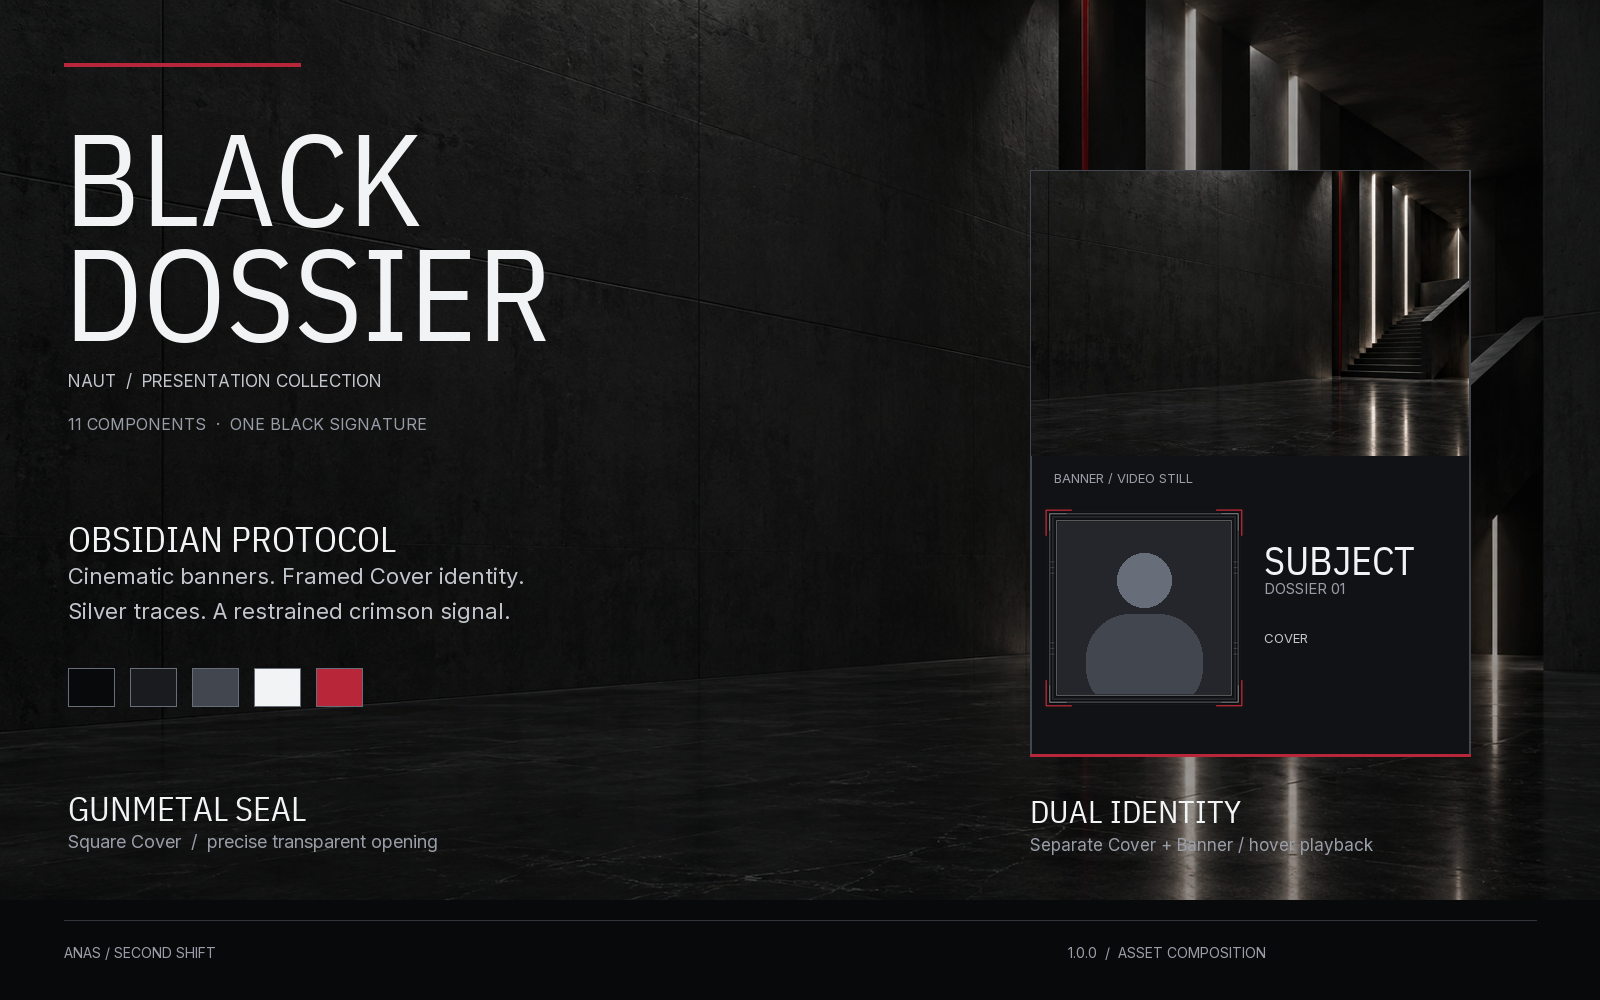
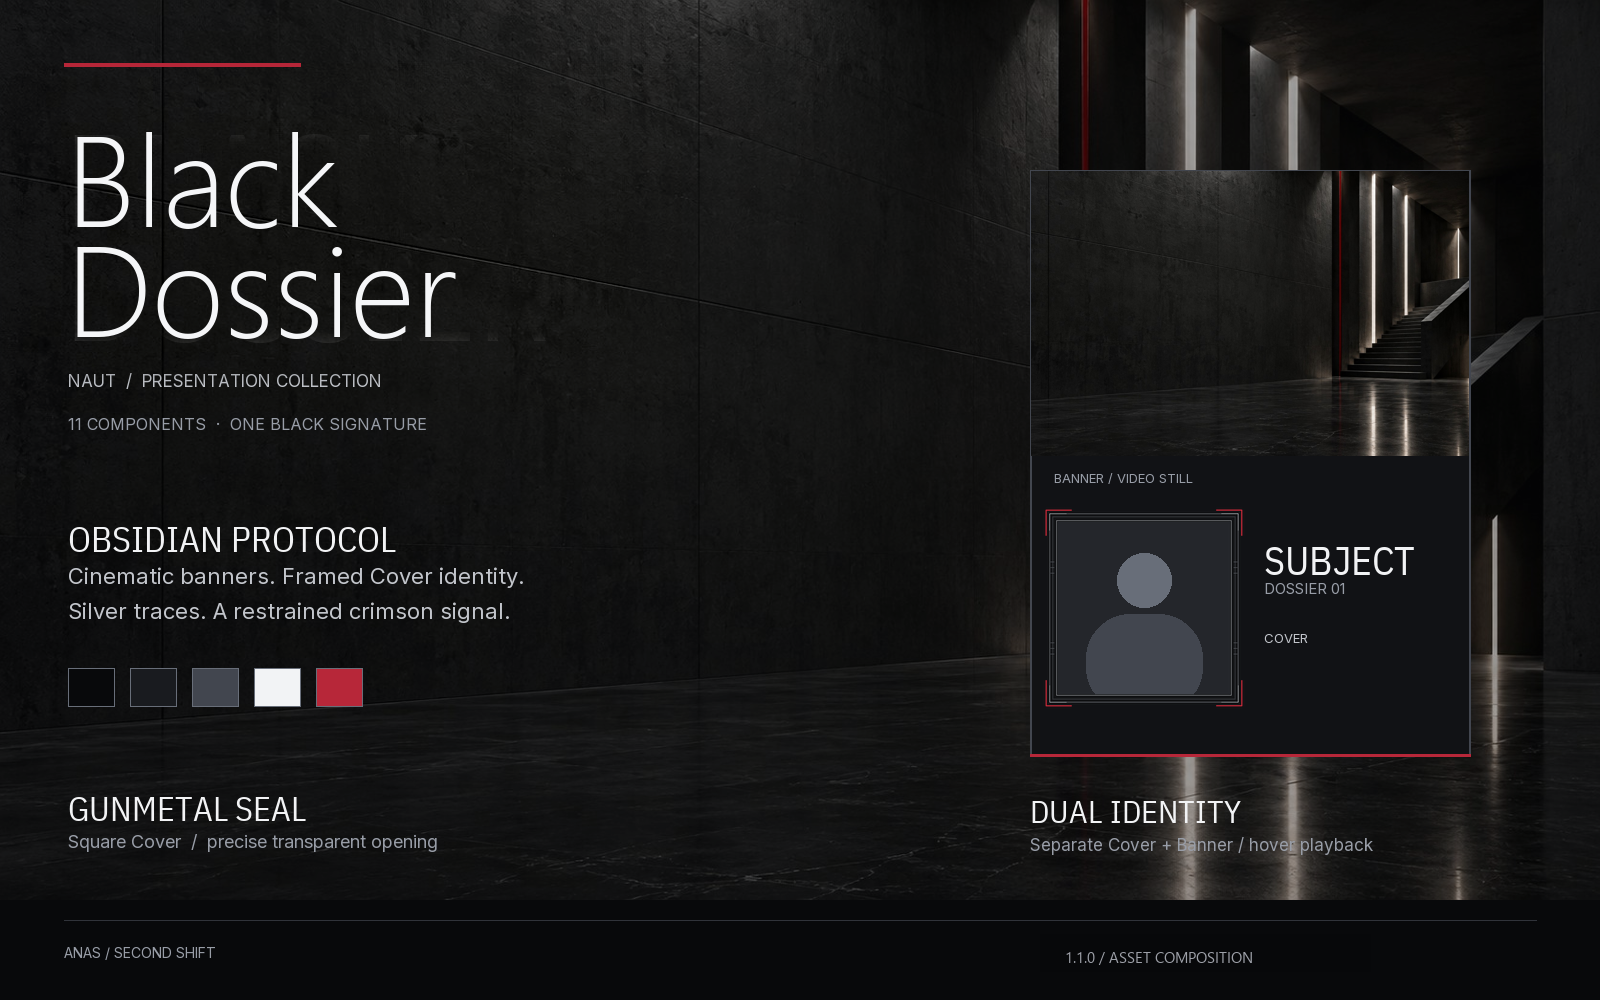
Publish refreshed optional packs for Naut 0.0.7

Changed region(s): [[0.0312, 0.124, 0.3438, 0.341], [0.6562, 0.93, 0.7812, 0.961]]

diff --git a/packs/README.md b/packs/README.md
@@ -4,15 +4,15 @@ Give your collection another atmosphere. These packs are reviewed by Naut's
 maintainer and installed only when you choose them. They are customization
 content with independent versions; they do not replace the application.
 
-## BLACK DOSSIER — 1.0.0
+## Black Dossier — 1.1.0
 
-![BLACK DOSSIER](black-dossier/preview.png)
+![Black Dossier](black-dossier/preview.png)
 
-A neutral black cinematic collection with restrained crimson accents. Eleven independently selectable components, including bundled typography, separate Cover/Banner cards, the native Figure and a visible three-tier effect. Requires **Naut 0.0.6 or later**. Preview is an asset composition.
+A neutral black cinematic collection with restrained crimson accents. Eleven independently selectable components, including bundled typography, separate Cover/Banner cards, the native Figure and a visible three-tier effect. Optimized for **Naut 0.0.7**. The Theme uses a small static image in Appearance. Preview is an asset composition.
 
-**[Download BLACK DOSSIER 1.0.0](https://secondshift-dv.github.io/naut/packs/black-dossier-1.0.0.ntpack)** · [Setup](black-dossier/README.md) · [Provenance](black-dossier/PROVENANCE.txt) · [Checksums](https://secondshift-dv.github.io/naut/packs/checksums.json)
+**[Download Black Dossier 1.1.0](https://secondshift-dv.github.io/naut/packs/black-dossier-1.1.0.ntpack)** · [Setup](black-dossier/README.md) · [Provenance](black-dossier/PROVENANCE.txt) · [Checksums](https://secondshift-dv.github.io/naut/packs/checksums.json)
 
-## Overworld Expedition — 1.0.1
+## Overworld Expedition — 1.1.0
 
 ![Overworld Expedition](overworld-expedition/preview.png)
 
@@ -21,9 +21,9 @@ collection shelves, three cozy backdrops and three cute square portrait frames.
 17 independently selectable components. The Profile layout puts the media wall
 before context and moves Delete to the bottom; the spotlight omits overview.
 Sparse effects drift slowly and provide reduced-motion/static variants.
-The preview is an asset composition, not a live app screenshot.
+The preview is an asset composition, not a live app screenshot. The Theme has a lightweight artwork thumbnail for Appearance. Home removes redundant Favorites; Profile adds optional Recent Media.
 
-**[Download Overworld Expedition 1.0.1](https://secondshift-dv.github.io/naut/packs/overworld-expedition-1.0.1.ntpack)**
+**[Download Overworld Expedition 1.1.0](https://secondshift-dv.github.io/naut/packs/overworld-expedition-1.1.0.ntpack)**
 · [Checksums](https://secondshift-dv.github.io/naut/packs/checksums.json)
 · [Setup and recommended components](overworld-expedition/README.md)
 · [Pack source](overworld-expedition/pack.json)
@@ -34,16 +34,16 @@ Fonts retain OFL. Use Square Covers for the portrait frames.
 Topbar colors share Naut's surface palette; page ornaments and Customize Card
 size remain engine controlled.
 
-## Celestial Collection · 1.2.0
+## Celestial Collection · 1.3.0
 
 ![Celestial Collection](celestial/preview.png)
 
 **Violet and Moonlit Azure**, three ornate portrait frames, a centered spotlight,
 compact layouts, atmospheric backdrops, stardust, typography and control styles.
 19 independently selectable components. Frame geometry follows Naut's ornate
-frame stage. The preview is an asset composition, not a live app screenshot.
+frame stage. The preview is an asset composition, not a live app screenshot. Both Themes have lightweight artwork thumbnails for Appearance. Home removes redundant Favorites; Profile adds optional Recent Media.
 
-**[Download Celestial 1.2.0](https://secondshift-dv.github.io/naut/packs/celestial-1.2.0.ntpack)**
+**[Download Celestial 1.3.0](https://secondshift-dv.github.io/naut/packs/celestial-1.3.0.ntpack)**
 · [Checksums](https://secondshift-dv.github.io/naut/packs/checksums.json)
 · [Pack source](celestial/pack.json) · [Artwork/font provenance](celestial/PROVENANCE.txt)
 

diff --git a/packs/overworld-expedition/README.md b/packs/overworld-expedition/README.md
@@ -1,4 +1,4 @@
-# Overworld Expedition — 1.0.1
+# Overworld Expedition — 1.1.0
 
 A calm voxel expedition for your collection, by **Anas / Second Shift**.
 17 independently selectable components. Install as an optional custom pack;
@@ -10,7 +10,7 @@ The preview combines pack assets; it is not a screenshot of Naut.
 
 ## Install and explore
 
-Download [Overworld Expedition 1.0.1](https://secondshift-dv.github.io/naut/packs/overworld-expedition-1.0.1.ntpack).
+Download [Overworld Expedition 1.1.0](https://secondshift-dv.github.io/naut/packs/overworld-expedition-1.1.0.ntpack).
 Open **Settings → Presentation → Packs / Advanced → Install from file**.
 Choose the archive, select components in Appearance or the corresponding
 Customize screen, and **Save changes**. Use **Replace** when updating this pack.
@@ -64,6 +64,13 @@ Voxel-world inspiration is expressed through original artwork. No Minecraft
 assets, logos or source files are included; this is an independent Naut pack.
 
 [Collection](../README.md) · [Checksums](https://secondshift-dv.github.io/naut/packs/checksums.json)
+
+## Changes in 1.1.0
+
+- Field Notes has a dedicated 320 x 180 artwork thumbnail for Settings > Appearance rather than relying on the full Meadow background.
+- Base Camp removes the redundant Favorites rail, giving Recent Profiles more room.
+- Collection Lodge shows optional Recent Media after identity when enabled; Delete remains last.
+- All original component ids remain unchanged; existing installations update through Replace.
 
 ## Changes in 1.0.1
 

diff --git a/packs/black-dossier/README.md b/packs/black-dossier/README.md
@@ -1,8 +1,8 @@
-# BLACK DOSSIER 1.0.0
+# Black Dossier 1.1.0
 
 Neutral black. Cinematic identity. Restrained crimson.
 
-**Requires Naut 0.0.6 or later** for selected Banner-video thumbnails and the card's explicit no-Cover-fallback image policy.
+**Optimized for Naut 0.0.7** for selected Banner-video thumbnails and the card's explicit no-Cover-fallback image policy.
 
 ![Asset composition preview](preview.png)
 
@@ -35,3 +35,11 @@ Subject Dossier keeps the full Banner. The native Figure remains beside identity
 Signal Trace uses 24 silver traces and a crimson sweep in Full; Reduced uses 12 traces and a slower sweep. Static fallback retains the grid and crimson glow. Reduced Motion uses the static fallback. Offscreen/minimized effects pause. No effect can be seen until it is selected and saved for the desired surface.
 
 Original artwork and definitions: CC BY 4.0, Anas / Second Shift. Fonts retain OFL. See [provenance](PROVENANCE.txt) and [license](LICENSE.txt).
+
+## Changes in 1.1.0
+
+- The pack and Theme display names use Black Dossier (title case); stable technical ids are unchanged.
+- Obsidian Protocol has a small 320 x 180 artwork thumbnail in Settings > Appearance.
+- Operations Desk removes the redundant Favorites rail and balances statistics, recent Profiles and activity.
+- Subject Dossier places optional Recent Media below its media wall, above context and Delete.
+- Existing component selections can be updated by installing the new pack with Replace.
